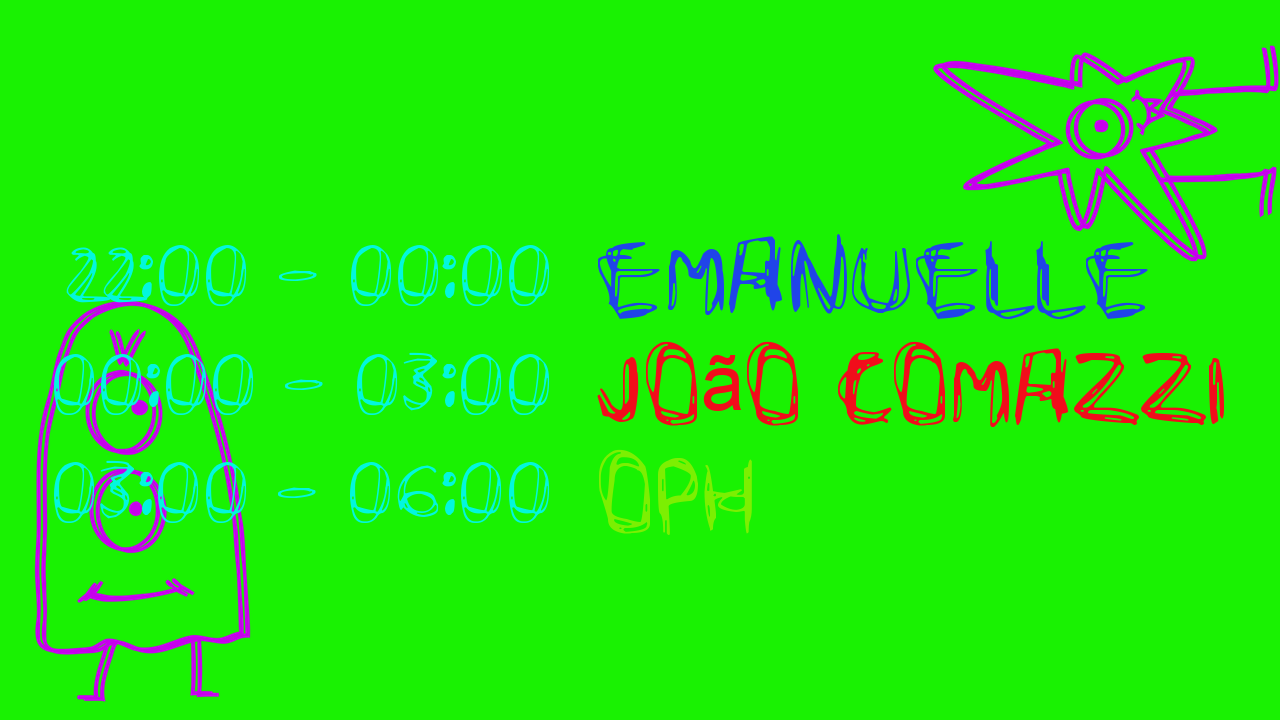
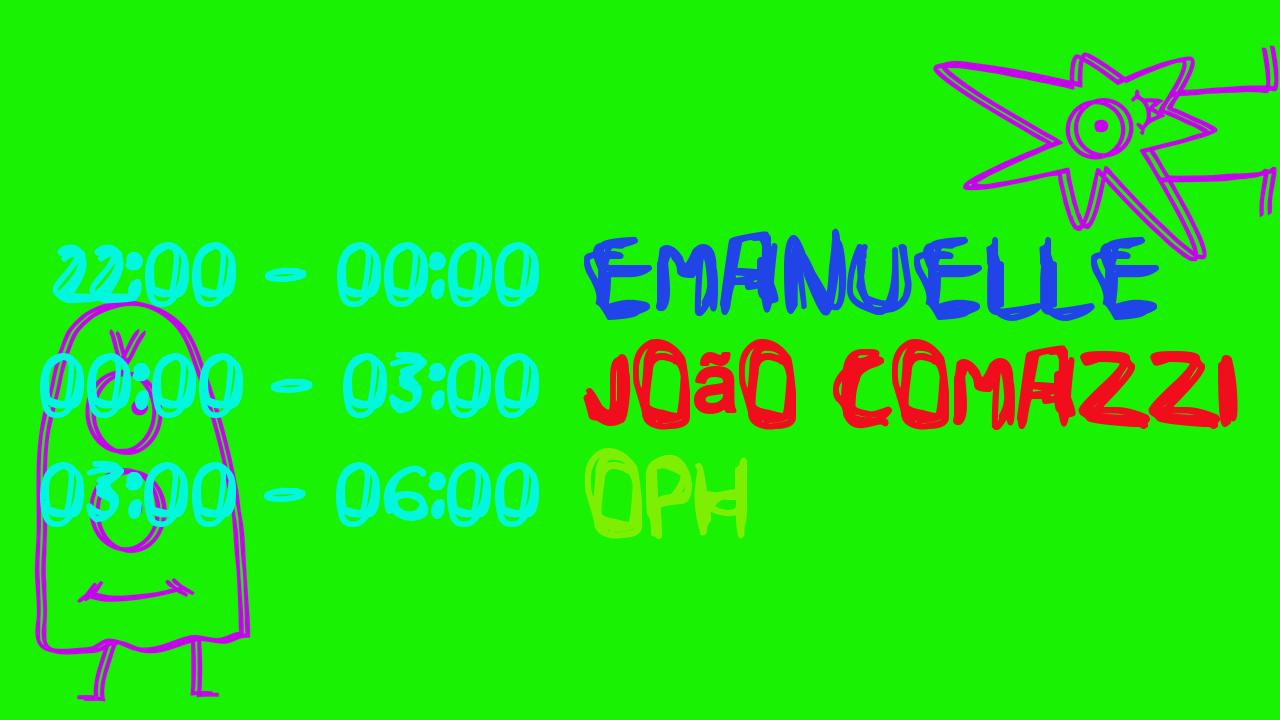
feat: bolder text, bigger type, much larger monsters on CRT frames
Faux-bold all text via stroke_width (the font has no bold weight) so the cyan
times and DJ names read heavier on the tube. Bump type sizes (~15%) and scale
the composite monsters way up (mscale 0.95 -> 1.4); at that size their outline
strokes spread apart into mostly-empty line art, so the text sits in the gaps
and stays legible over them.

Changed region(s): [[0.0312, 0.3056, 0.9688, 0.7639]]

diff --git a/mnj-lineup/tools/gen_frames.py b/mnj-lineup/tools/gen_frames.py
@@ -30,7 +30,7 @@ FONT_PATH = os.path.join(ROOT, "assets", "fonts", "ScribbleWire.ttf")
 # layout adapts via the H-relative fractions, so it stays balanced on the tube.
 MODES = {
     "hdmi": dict(W=1280, H=720, out="kiosk_frames", inset=0, mscale=1.0),
-    "composite": dict(W=720, H=576, out="kiosk_frames_pal", inset=48, mscale=0.8),
+    "composite": dict(W=720, H=576, out="kiosk_frames_pal", inset=48, mscale=1.4),
 }
 BG = (25, 242, 2)            # #19f202
 MONSTER = (198, 0, 237)      # #c600ed
@@ -68,8 +68,8 @@ LINEUPS = {
 
 FRAMES_PER_DAY = 6
 # Type/spacing as a fraction of canvas height so both resolutions look alike.
-TIME_FRAC = 40 / 720
-DJ_FRAC = 52 / 720
+TIME_FRAC = 46 / 720
+DJ_FRAC = 60 / 720
 ROW_GAP_FRAC = 22 / 720
 COL_GAP_FRAC = 44 / 1280
 TOP_BIAS_FRAC = 24 / 720
@@ -143,15 +143,17 @@ def measure(draw, txt, scribble, fallback):
     return int(w), top, bot
 
 
-def draw_mixed(draw, xy, txt, scribble, fallback, fill):
+def draw_mixed(draw, xy, txt, scribble, fallback, fill, bold=0):
     """Draw left-to-right switching fonts per run, all on one baseline.
 
-    xy is the left end of the baseline (anchor 'ls').
+    xy is the left end of the baseline (anchor 'ls'). bold > 0 thickens the
+    strokes (faux-bold via stroke_width) since the font has no bold weight.
     """
     x, y = xy
     for s, fb in runs(txt):
         font = fallback if fb else scribble
-        draw.text((x, y), s, font=font, fill=fill, anchor="ls")
+        draw.text((x, y), s, font=font, fill=fill, anchor="ls",
+                  stroke_width=bold, stroke_fill=fill)
         x += draw.textlength(s, font=font)
 
 
@@ -194,6 +196,10 @@ def render_frame(cfg, m1, m2, day, frame_idx):
         time_size -= 2
         dj_size -= 2
 
+    # Faux-bold stroke width, proportional to each font size (min 1px).
+    time_bold = max(1, round(time_size * 0.045))
+    dj_bold = max(1, round(dj_size * 0.045))
+
     row_heights = []
     for t, d in slots:
         _, tt, tb = measure(draw, t, time_font, time_fb)
@@ -223,7 +229,7 @@ def render_frame(cfg, m1, m2, day, frame_idx):
         # time (purple, right-aligned); place on a baseline centered in the row.
         t_base = y + (rh - (tbot - tt)) // 2 - tt
         draw_mixed(draw, (time_right_x - tw, t_base),
-                   t, time_font, time_fb, TIME_COLOR)
+                   t, time_font, time_fb, TIME_COLOR, bold=time_bold)
         # dj name (cycling color, left-aligned), dimmed if off this frame
         color = DJ_COLORS[DJ_ORDER[i % len(DJ_ORDER)]]
         if i in off:
@@ -231,7 +237,7 @@ def render_frame(cfg, m1, m2, day, frame_idx):
         dw, dt, dbot = measure(draw, d, dj_font, dj_fb)
         d_base = y + (rh - (dbot - dt)) // 2 - dt
         draw_mixed(draw, (dj_left_x, d_base),
-                   d, dj_font, dj_fb, color)
+                   d, dj_font, dj_fb, color, bold=dj_bold)
         y += rh + ROW_GAP
 
     return img
